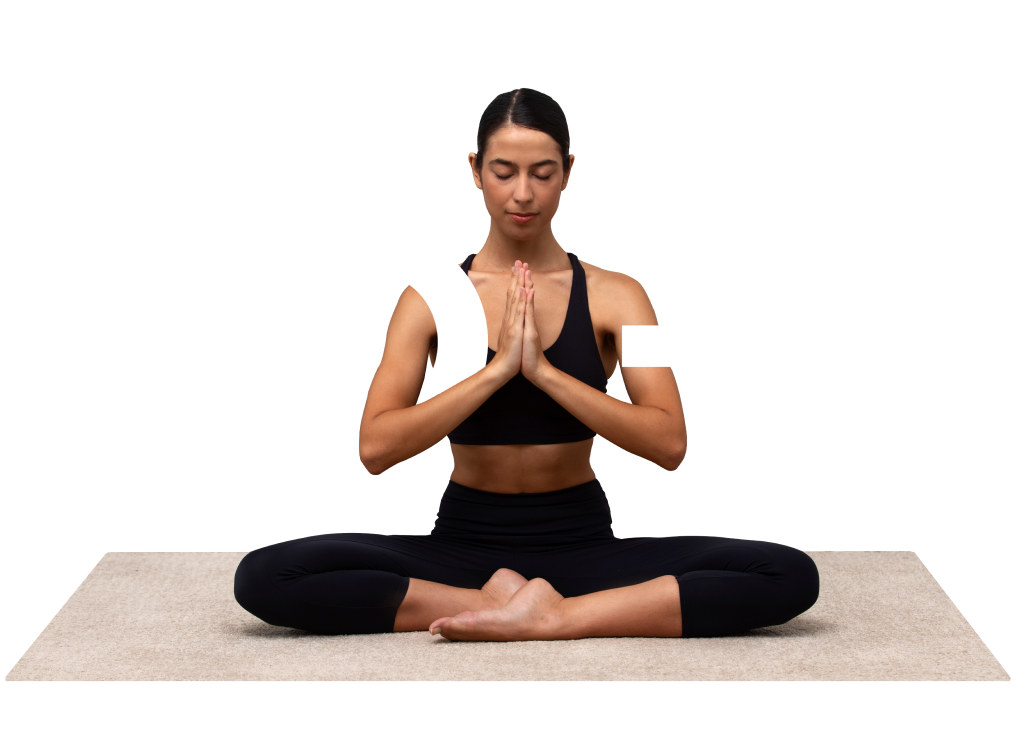
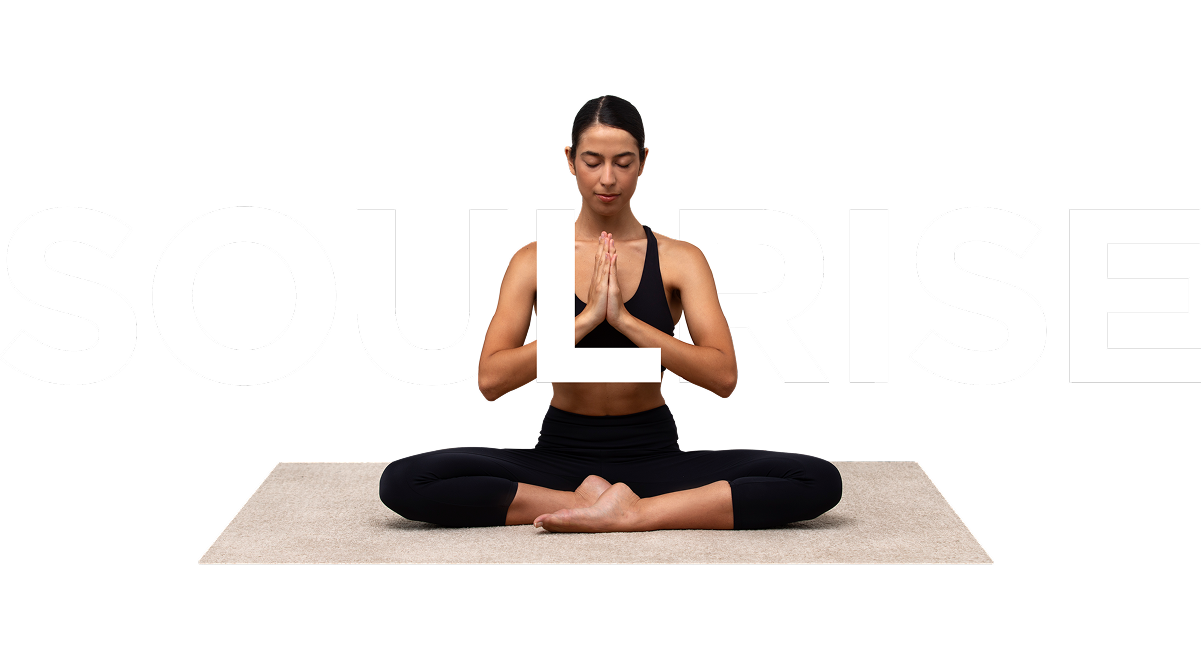
yogic to soulrise

Changed region(s): [[0.0, 0.0922, 0.9971, 0.9217]]

diff --git a/client/src/Pages/User/Home.tsx b/client/src/Pages/User/Home.tsx
@@ -7,7 +7,7 @@ import FAQSection from '../../Components/User/Faq'
 import TestimonialSlider from '../../Components/User/Testimonial'
 import Contact from '../../Components/User/Contact'
 import Footer from '../../Components/User/Footer'
-import swami from '../../assets/images/swami.png';
+import swami3 from '../../assets/images/swami3.png';
 import girl1 from '../../assets/images/Mask group1.png';
 import girl2 from '../../assets/images/Mask group2.png';
 import { Disclosure } from "@headlessui/react";
@@ -16,43 +16,87 @@ import { Disclosure } from "@headlessui/react";
 
 function Home() {
 
+  // const faqData = [
+  //   {
+  //     question: 'Do I need prior experience to start meditating?',
+  //     answer:
+  //       'No prior experience is required to begin meditating. Our platform offers guided sessions for beginners as well as advanced practitioners, so you can start at your own pace and gradually deepen your practice.',
+  //   },
+  //   {
+  //     question: 'How long should I meditate each day?',
+  //     answer:
+  //       'There’s no set amount of time required for meditation. Beginners may start with just 5-10 minutes per day, and as you become more comfortable, you can gradually extend your sessions. We offer meditations of varying lengths to fit your schedule.',
+  //   },
+  //   {
+  //     question: 'What types of meditation do you offer?',
+  //     answer:
+  //       'We provide a variety of meditation styles, including mindfulness, breath work, loving-kindness, body scan, chakra meditation, and guided visualization. This diversity allows you to explore different approaches and find the ones that resonate with you.',
+  //   },
+  //   {
+  //     question: 'What if I have trouble staying focused during meditation?',
+  //     answer:
+  //       'It’s completely normal to struggle with focus at the beginning. Our guided meditations are designed to help you develop focus over time. Start with shorter sessions and gradually increase as you build your mindfulness skills. Remember, meditation is a practice, and improvement comes with consistency.',
+  //   },
+  //   {
+  //     question: 'Is meditation suitable for children?',
+  //     answer:
+  //       'Yes, we offer specialized meditation content for children and teens, focusing on mindfulness, relaxation, and emotional regulation. Meditation can help young people develop focus, reduce anxiety, and foster positive emotional development.',
+  //   },
+  //   {
+  //     question: 'Is there a fee to use the platform?',
+  //     answer:
+  //       'We offer both free and premium content. You can access a selection of guided meditations and courses for free, and our premium membership provides access to exclusive content, live sessions, and advanced programs for a more personalized experience.',
+  //   },
+  //   {
+  //     question: 'Are you finding it difficult to do meditation? Why do you feel meditation isn\'t effective for you?',
+  //     answer:
+  //       'There are a lot of meditation techniques, and not all of them are for everyone. Each individual must find the one that truly speaks to their unique journey. Certain techniques will resonate deeply with some individuals, while others may find their connection elsewhere. Select the meditation technique that resonates most with you, and practice it consistently. Avoid trying to juggle multiple methods or following every trend. Choose thoughtfully, with clear intention, and commit to that practice fully, integrating it meaningfully into your life.',
+  //   },
+  // ];
+
   const faqData = [
     {
-      question: 'Do I need prior experience to start meditating?',
-      answer:
-        'No prior experience is required to begin meditating. Our platform offers guided sessions for beginners as well as advanced practitioners, so you can start at your own pace and gradually deepen your practice.',
+      question: "I've never done yoga before. Can I still join?",
+      answer: "Yes! Many online yoga programs are designed for all levels, including complete beginners. You can start at your own pace and build confidence over time."
     },
     {
-      question: 'How long should I meditate each day?',
-      answer:
-        'There’s no set amount of time required for meditation. Beginners may start with just 5-10 minutes per day, and as you become more comfortable, you can gradually extend your sessions. We offer meditations of varying lengths to fit your schedule.',
+      question: "How does online yoga work?",
+      answer: "Online yoga typically includes recorded video classes, live sessions, or guided programs you can follow from home. You just need a device with internet access and a bit of space to move."
     },
     {
-      question: 'What types of meditation do you offer?',
-      answer:
-        'We provide a variety of meditation styles, including mindfulness, breath work, loving-kindness, body scan, chakra meditation, and guided visualization. This diversity allows you to explore different approaches and find the ones that resonate with you.',
+      question: "Do I need to be flexible to do yoga?",
+      answer: "Not at all. Yoga helps improve flexibility, but you don't need to be flexible to begin. You'll find poses and modifications that work for your body."
     },
     {
-      question: 'What if I have trouble staying focused during meditation?',
-      answer:
-        'It’s completely normal to struggle with focus at the beginning. Our guided meditations are designed to help you develop focus over time. Start with shorter sessions and gradually increase as you build your mindfulness skills. Remember, meditation is a practice, and improvement comes with consistency.',
+      question: "What equipment do I need at home?",
+      answer: "A yoga mat is ideal, but you can also use a towel or carpeted area. Optional items like blocks or straps can be helpful, but household items (like books or belts) often work too."
     },
     {
-      question: 'Is meditation suitable for children?',
-      answer:
-        'Yes, we offer specialized meditation content for children and teens, focusing on mindfulness, relaxation, and emotional regulation. Meditation can help young people develop focus, reduce anxiety, and foster positive emotional development.',
+      question: "How often should I practice yoga?",
+      answer: "Even 2-3 sessions per week can make a big difference. The key is consistency, and you can increase frequency as your interest and comfort grow."
     },
     {
-      question: 'Is there a fee to use the platform?',
-      answer:
-        'We offer both free and premium content. You can access a selection of guided meditations and courses for free, and our premium membership provides access to exclusive content, live sessions, and advanced programs for a more personalized experience.',
+      question: "Can yoga help with stress or sleep?",
+      answer: "Yes. Yoga often includes breathing exercises and relaxation techniques that are great for reducing stress and improving sleep quality."
     },
     {
-      question: 'Are you finding it difficult to do meditation? Why do you feel meditation isn\'t effective for you?',
-      answer:
-        'There are a lot of meditation techniques, and not all of them are for everyone. Each individual must find the one that truly speaks to their unique journey. Certain techniques will resonate deeply with some individuals, while others may find their connection elsewhere. Select the meditation technique that resonates most with you, and practice it consistently. Avoid trying to juggle multiple methods or following every trend. Choose thoughtfully, with clear intention, and commit to that practice fully, integrating it meaningfully into your life.',
+      question: "What kinds of yoga are available online?",
+      answer: "Most online platforms offer a range—like Vinyasa (flow), Hatha (gentle), Restorative (relaxing), Yin (deep stretches), and Power Yoga (strength-based). You can explore and find what feels best for you."
     },
+    {
+      question: "What if I can't do all the poses?",
+      answer: "That's completely normal. Yoga is about listening to your body. Many instructors offer modifications so you can adjust poses to your ability."
+    },
+    {
+      question: "Is yoga a good workout?",
+      answer: "Yes—yoga can improve strength, flexibility, balance, and endurance. Some styles are more relaxing, while others offer a full-body workout."
+    },
+    {
+      question: "Can I do yoga if I have an injury or medical condition?",
+      answer: "Often yes, but it's important to check with your doctor first. Look for gentle or beginner-friendly classes and listen to your body during practice."
+    }
   ];
+
 
   const yogaData = [
     {
@@ -108,9 +152,9 @@ function Home() {
         <YogaSection />
         <CourseSection />
         <Yoga />
-        <section className="max-w-7xl mx-auto px-6 py-12 overflow-hidden">
+        {/* <section className="max-w-7xl mx-auto px-6 py-12 overflow-hidden">
               <h2 className="text-3xl font-bold text-left mb-12 pl-4 font-galano">Benefits of Yoga and Meditation</h2>
-              {/* Yoga Section */}
+             
               <div className="flex flex-col-reverse lg:flex-row justify-between items-start space-y-6 lg:space-y-0 mb-12 p-16 border border-gray-300 rounded-3xl">
               <div className="lg:w-1/2 space-y-4">
               <h3 className="text-2xl font-bold pt-4 font-galano">YOGA:</h3>
@@ -150,7 +194,7 @@ function Home() {
                     </div>
                 </div>
               </div>
-             {/* meditation section */}
+             
              <div className="flex flex-col lg:flex-row justify-between items-start space-y-6 lg:space-y-0 mb-12 p-16 border border-gray-300 rounded-3xl">
              <div className="  lg:w-1/2 flex justify-center">  
              <div data-aos="fade-right">
@@ -191,20 +235,16 @@ function Home() {
             </div>
                
               </div> 
-            </section>
+        </section> */}
+
         <FAQSection faqData={faqData} />
         
-        <div className=" flex flex-col items-center bg-white pb-10 justify-center">
-            
-            <div data-aos="zoom-in">
-            <div className="w-full px-4 mx-auto flex pb-10  ">
-            <img
-              src={swami} 
-              alt="Swami Vivekananda"
-              className=" object-cover rounded-lg shadow-lg aspect mx-auto"
-            />
-            </div>
-            </div>
+        <div className="md:my-20 my-12 max-w-7xl mx-auto flex justify-center">
+          <img
+            src={swami3}
+            alt="Swami Vivekananda"
+            className="w-full h-auto object-cover rounded-lg shadow-lg m-1"
+          />
         </div>
         <TestimonialSlider />
         <Contact />

diff --git a/client/src/Components/User/Yogasection.tsx b/client/src/Components/User/Yogasection.tsx
@@ -10,7 +10,7 @@ import yogagirl from '../../assets/images/pikaso_embed.png';
 const YogaSection = () => {
     const items = Array(10).fill({
         icon: <MdWbSunny className="inline-block text-green-500 mx-2" />,
-        text: 'Mindful Movement with Yogic',
+        text: 'Mindful Movement with SoulRise Living',
     });
     const navigate = useNavigate()
 
@@ -34,7 +34,7 @@ const YogaSection = () => {
                             className="rounded-lg mb-6"
                         />
                         <p className="text-gray-600 mb-6 font-galano">
-                            At Yogic, we believe in the transformative power of yoga to
+                            At SoulRise Living, we believe in the transformative power of yoga to
                             enhance your well-being. Our dedicated instructors create a
                             welcoming space where you can explore and deepen your practice.
                             Whether you're a beginner or seasoned yogi, we’re here to support
@@ -76,7 +76,7 @@ const YogaSection = () => {
                                 Passion for Yoga, and Meditation, Path to Wellness
                             </h2>
                             <p className="text-gray-600 mb-6 pr-6 font-galano">
-                                At Yogic, we believe in the transformative power of yoga to
+                                At SoulRise Living, we believe in the transformative power of yoga to
                                 enhance your well-being. Our dedicated instructors create a
                                 welcoming space where you can explore and deepen your practice.
                                 Whether you're a beginner or seasoned yogi, we’re here to support
@@ -106,7 +106,7 @@ const YogaSection = () => {
                                     <MdWbSunny className="inline-block" />
                                 </span>
                                 <span className="mx-4 text-green-600 font-Montserrat">
-                                    Mindful Movement with Yogic
+                                    Mindful Movement with SoulRise Living
                                 </span>
                             </React.Fragment>
                         ))}

diff --git a/client/src/Components/User/YogaPart.tsx b/client/src/Components/User/YogaPart.tsx
@@ -159,8 +159,8 @@ console.log(yogaStyles.length,"yogaStylesyogaStylesyogaStylesyogaStyles")
       
       <Layout
       image= {girl}
-      heading="Transform Mind, Body, Soul with Yogicblis"
-      description="Begin your journey towards inner peace with us, and discover how even small moments of mindfulness can lead to significant changes in your daily life. At Yogicblis, we provide a variety of classes tailored to every experience level, whether you're a beginner stepping onto the mat for the first time or an advanced practitioner seeking to enhance your practice. Our approach combines time-honored yogic traditions with contemporary methods, guiding you to develop physical strength, mental clarity, and spiritual growth."
+      heading="Transform Mind, Body, Soul with SoulRise Living"
+      description="Begin your journey towards inner peace with us, and discover how even small moments of mindfulness can lead to significant changes in your daily life. At SoulRise Living, we provide a variety of classes tailored to every experience level, whether you're a beginner stepping onto the mat for the first time or an advanced practitioner seeking to enhance your practice. Our approach combines time-honored SoulRise Living traditions with contemporary methods, guiding you to develop physical strength, mental clarity, and spiritual growth."
       ctaText="View Courses"
       ctaLink="/courses"
       />
@@ -343,7 +343,7 @@ console.log(yogaStyles.length,"yogaStylesyogaStylesyogaStylesyogaStyles")
         <div className="md:w-1/2">
         <div data-aos="fade-left">
           <p className="md:text-lg text-base text-gray-700 mb-6 md:pr-20 md:mr-10 font-galano">
-            At YogicBliss, we guide you to joy and purpose through diverse yoga styles and mindfulness practices. Our online sessions, breathwork, and spiritual coaching support your journey towards holistic well-being.
+            At SoulRise Living, we guide you to joy and purpose through diverse yoga styles and mindfulness practices. Our online sessions, breathwork, and spiritual coaching support your journey towards holistic well-being.
           </p>
 
           <ul className="md:text-lg text-base text-gray-700 space-y-2 md:pr-20 md:mr-10 font-galano">

diff --git a/client/src/Components/User/ContactSection.tsx b/client/src/Components/User/ContactSection.tsx
@@ -1,12 +1,11 @@
-import React, { useEffect, useState } from 'react'
-import { FaArrowRight } from 'react-icons/fa';
-import { IoLocationOutline, IoMailOutline, IoCallOutline } from 'react-icons/io5';
-import { GrMapLocation } from "react-icons/gr";
 import { Button } from '@nextui-org/react';
-import { Link, useLocation, useNavigate } from 'react-router-dom';
-import logo from '../../assets/images/IMG_2842.png'
+import React, { useState } from 'react';
+import { FaArrowRight } from 'react-icons/fa';
+import { GrMapLocation } from "react-icons/gr";
+import { IoCallOutline, IoMailOutline } from 'react-icons/io5';
+import { useLocation, useNavigate } from 'react-router-dom';
+import girl from '../../assets/images/YogicContactImg.png';
 import Navbar from './Navbar';
-import girl from '../../assets/images/YogicContactImg.png'
 
 
 
@@ -59,7 +58,7 @@ function ContactSection() {
                       </div>
                       <div>
                         <h2 className="text-lg font-semibold text-gray-800 text-left font-galano">Address</h2>
-                        <p className="text-gray-600 text-left font-galano">YogicBliss Yoga Studio</p>
+                        <p className="text-gray-600 text-left font-galano">SoulRise Living Yoga Studio</p>
                         <p className="text-gray-600 text-left font-galano">123 Harmony Lane</p>
                         <p className="text-gray-600 text-left font-galano">Wellness City, YG 45678</p>
                         <p className="text-gray-600 text-left font-galano">Country</p>
@@ -77,7 +76,7 @@ function ContactSection() {
                       </div>
                       <div>
                         <h2 className="text-lg font-semibold text-gray-800 text-left font-galano">Email Address</h2>
-                        <p className="text-gray-600 text-left font-galano">yogicbliss123@gmail.com</p>
+                        <p className="text-gray-600 text-left font-galano">SoulRise Living123@gmail.com</p>
                       </div>
                     </div>
                   </div>

diff --git a/client/src/Components/User/About.tsx b/client/src/Components/User/About.tsx
@@ -14,8 +14,8 @@ import girl2 from '../../assets/images/Mask group2.png';
 import YogicAbout from '../../assets/images/YogicAboutImg.png';
 import Contact from '../User/Contact';
 import CourseSection from '../User/Courses';
-import TestimonialSlider from '../User/Testimonial';
 import Profiles from '../User/Profiles';
+import TestimonialSlider from '../User/Testimonial';
 import Layout from './Layout';
 import Navbar from './Navbar';
 
@@ -118,8 +118,8 @@ const yogaData = [
 
       <Layout
       image= {girl}
-      heading="Yogicbliss: Your Path to Inner Harmony"
-      description="In today’s hectic world, achieving tranquility and focus can feel like an elusive goal. At Yogicbliss, we see meditation not just as a practice, but as a powerful tool for cultivating a harmonious and mindful life. Whether you're just beginning your meditation journey or seeking to enhance your existing practice, our resources are crafted to support you every step of the way. Through guided sessions and expert insights, we empower you to unlock the peace within. Embrace a life of balance, clarity, and deeper connection with Yogicbliss."
+      heading="SoulRise Living: Your Path to Inner Harmony"
+      description="In today’s hectic world, achieving tranquility and focus can feel like an elusive goal. At SoulRise Living, we see meditation not just as a practice, but as a powerful tool for cultivating a harmonious and mindful life. Whether you're just beginning your meditation journey or seeking to enhance your existing practice, our resources are crafted to support you every step of the way. Through guided sessions and expert insights, we empower you to unlock the peace within. Embrace a life of balance, clarity, and deeper connection with SoulRise Living."
       ctaText="View Courses"
       ctaLink="/courses"
     />

diff --git a/client/src/Components/User/Meditations.tsx b/client/src/Components/User/Meditations.tsx
@@ -134,7 +134,7 @@ function Meditations() {
         
         <Layout
         image= {girl}
-        heading="Awaken Your True Self with YogicBlis Meditation"
+        heading="Awaken Your True Self with SoulRise Living Meditation"
         description="Meditation, in its most advanced form, is a journey into the depths of human consciousness, transcending simple relaxation techniques to become a powerful tool for self-discovery and inner transformation. It serves as a gateway to profound insights into the nature of the mind and existence, fostering a deep sense of inner peace, heightened awareness, and spiritual growth. By harmonizing the mind, body, and spirit, meditation opens up new realms of understanding and connection, leading to a more balanced, purposeful, and enriched experience of life."
         ctaText="View Courses"
         ctaLink="/courses"
@@ -321,7 +321,7 @@ function Meditations() {
           <div data-aos="fade-left">
 
           <p className="md:text-lg text-base text-gray-700 mb-6 md:pr-20 md:mr-10 font-galano">
-            At YogicBlis, we guide you to joy and purpose through various meditation techniques and mindfulness practices. Our online sessions, breathwork, and spiritual coaching support your journey towards holistic well-being.
+            At SoulRise Living, we guide you to joy and purpose through various meditation techniques and mindfulness practices. Our online sessions, breathwork, and spiritual coaching support your journey towards holistic well-being.
             </p>
   
             <ul className="md:text-lg text-base text-gray-700 space-y-2 md:pr-20 md:mr-10 font-galano">

diff --git a/client/src/Components/User/Layout.tsx b/client/src/Components/User/Layout.tsx
@@ -7,7 +7,7 @@ import { MdWbSunny } from "react-icons/md";
 function Layout({ image, heading, description, ctaText, ctaLink }) {
     const items = Array(10).fill({
         icon: <MdWbSunny className="inline-block text-green-500 mx-2" />,
-        text: 'Mindful Movement with Yogic',
+        text: 'Mindful Movement with SoulRise Living',
     });
    
 
@@ -76,7 +76,7 @@ function Layout({ image, heading, description, ctaText, ctaLink }) {
                                     <MdWbSunny className="inline-block" />
                                 </span>
                                 <span className="mx-4 text-green-600 font-Montserrat">
-                                    Mindful Movement with Yogic
+                                    Mindful Movement with SoulRise Living
                                 </span>
                             </React.Fragment>
                         ))}

diff --git a/client/src/Components/User/Profiles.tsx b/client/src/Components/User/Profiles.tsx
@@ -243,7 +243,7 @@ In addition to the above, she has got certification of Diet and Nutrition from B
                                 "Inversions & Arm Balances Workshop: A workshop focused on learning challenging poses with proper alignment.",
                                 "Pranayama: Breath exercises for cold and sinus related problems, blood pressure related problems and for calmness",
                                 "Trataka: Very effective activity for improved eyesight and mind relaxation.",
-                                "Bandhas: Yogic bandhas for energy restoration and energy center activation."
+                                "Bandhas: SoulRise Living bandhas for energy restoration and energy center activation."
                             ]}
                             />
 

diff --git a/client/src/Components/User/CourseSection.tsx b/client/src/Components/User/CourseSection.tsx
@@ -50,7 +50,7 @@ function CourseSection() {
 
   const items = Array(10).fill({
     icon: <MdWbSunny className="inline-block text-green-500 mx-2" />,
-    text: "Mindful Movement with Yogic",
+    text: "Mindful Movement with SoulRise Living",
   });
 
   useEffect(() => {
@@ -220,7 +220,7 @@ function CourseSection() {
                                     <MdWbSunny className="inline-block" />
                                 </span>
                                 <span className="mx-4 text-green-600 font-Montserrat">
-                                    Mindful Movement with Yogic
+                                    Mindful Movement with SoulRise Living
                                 </span>
                             </React.Fragment>
                         ))}

diff --git a/client/src/Components/User/Contact.tsx b/client/src/Components/User/Contact.tsx
@@ -55,7 +55,7 @@ function Contact() {
             BOOK YOUR SESSION
           </h2>
           <p className="text-gray-600 mb-6 sm:mb-8 md:text-lg sm:text-lg font-galano">
-            Join us on your yogic journey! Reserve your spot today and discover
+            Join us on your SoulRise Living journey! Reserve your spot today and discover
             classes that help you unwind, strengthen, and find balance. Start
             your transformation now.
           </p>

diff --git a/client/index.html b/client/index.html
@@ -4,7 +4,7 @@
     <meta charset="UTF-8" />
     <link rel="icon" type="image/svg+xml" href="/src/assets/images/image 1.png" />
     <meta name="viewport" content="width=device-width, initial-scale=1.0" />
-    <title>YOGIC BLISS</title>
+    <title>SoulRise Living</title>
   </head>
   <body>
     <div id="root"></div>

diff --git a/client/src/Components/User/Footer.tsx b/client/src/Components/User/Footer.tsx
@@ -117,7 +117,7 @@ const Footer = () => {
 
         {/* Footer bottom */}
         <div className="mt-8 text-center">
-          <p>&copy; 2024 Yogic | All Rights Reserved</p>
+          <p>&copy; 2024 SoulRise Living | All Rights Reserved</p>
         </div>
       </div>
     </footer>
